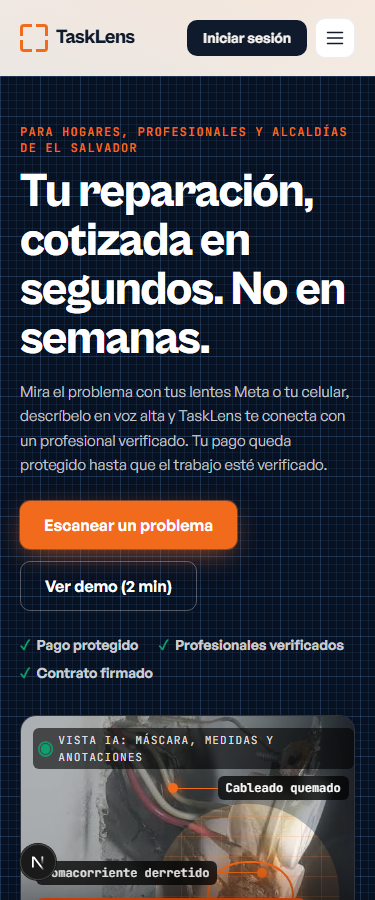
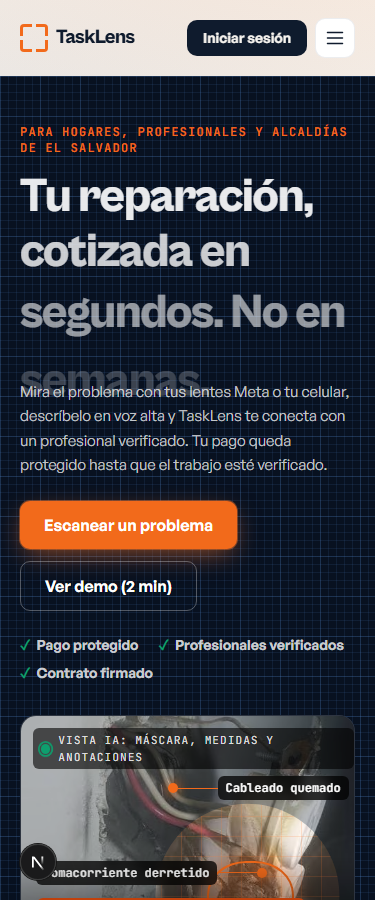
feat(ui): V7 core flow pages with showcase photos and demo states

Changed region(s): [[0.0587, 0.1867, 0.8507, 0.4667], [0.792, 0.3111, 0.9387, 0.3733]]

diff --git a/PROGRESS.md b/PROGRESS.md
@@ -112,8 +112,7 @@ Update it at the end of every work item (done-check, commit hash, next scope).
   LiveJobs section (demo label), real-photo hero + glasses card, lensRisk/
   glassesCaption keys. Typecheck + 93/93 + e2e-home green; no fixes needed.
   Never use the 13 excluded (esp. #40).
-- V3 DONE (Nov 1): landing section by section — hero trust row; LiveJobs featured
-  done card w/ keyboard before/after slider (pairId); problema split rows;
+- V3 DONE (Nov 1): landing section by section — hero trust row; LiveJobs featured  done card w/ keyboard before/after slider (pairId); problema split rows;
   carrera dark-band timeline w/ Day/Minute axes; cómo-funciona real step photos;
   theater real app screenshots (public/images/screens/, inactive ≥55%);
   role tabs w/ dashboard screenshots (+4th alcaldías tab); CitySection SlaBar +
@@ -121,6 +120,20 @@ Update it at the end of every work item (done-check, commit hash, next scope).
   micro-demos (ai_spec JSON, SAM photo mask, glasses POV; Muse Image omitted);
   FAQ 10/10 ES+EN; bands paper/white/ink-night + 28/40 type; final CTA dark.
   ui-v3 home 375/1440 light+dark ES+EN all ok, no h-scroll (fixed TabList wrap).
+- INCIDENTS (Nov 1): V3 commit zeroed 7 woff2 (fixed 4604d43, root cause TBD —
+  .gitattributes now marks binaries) and a screenshot-folder cleanup wiped
+  apps/web/public (fixed a2b3254 via `git checkout 2b7879b -- apps/web/public/`;
+  84 jobs + 142 showcase + icons + manifest + sw back, tests 93/93).
+  Lesson: never `Remove-Item` near public/; verify `git status` before `add -A`.
+- V7 DONE (Nov 1, demo path): /scan real example-photo chips (3 showcase jobs,
+  canvas demo removed); /quote two-column + sticky panel, numbered steps
+  timeline, confidence ring, sticky reserve; /book map+cards grid, trust-ring
+  avatars, stamp + held explainer; /jobs/[id] payment card (held→released) +
+  before/after slider from step evidence; /pro/jobs 32px step + 64px advance;
+  4xl headers + leads on scan/quote/book/jobs/contracts/passport/calendar/
+  projects/apply/ajustes. V9: typecheck + 93/93 + build green; e2e-home 12/12
+  (home 8 + scan 4) ok. NOTE: V7 code partially rode in a2b3254 (restore commit
+  staged it via add -A); remainder + PROGRESS here.
 
 ## Done
 - Day 1: monorepo, schema+RLS+seed (25 pros), `scanToSpec` CLI (+ `--mock`).
